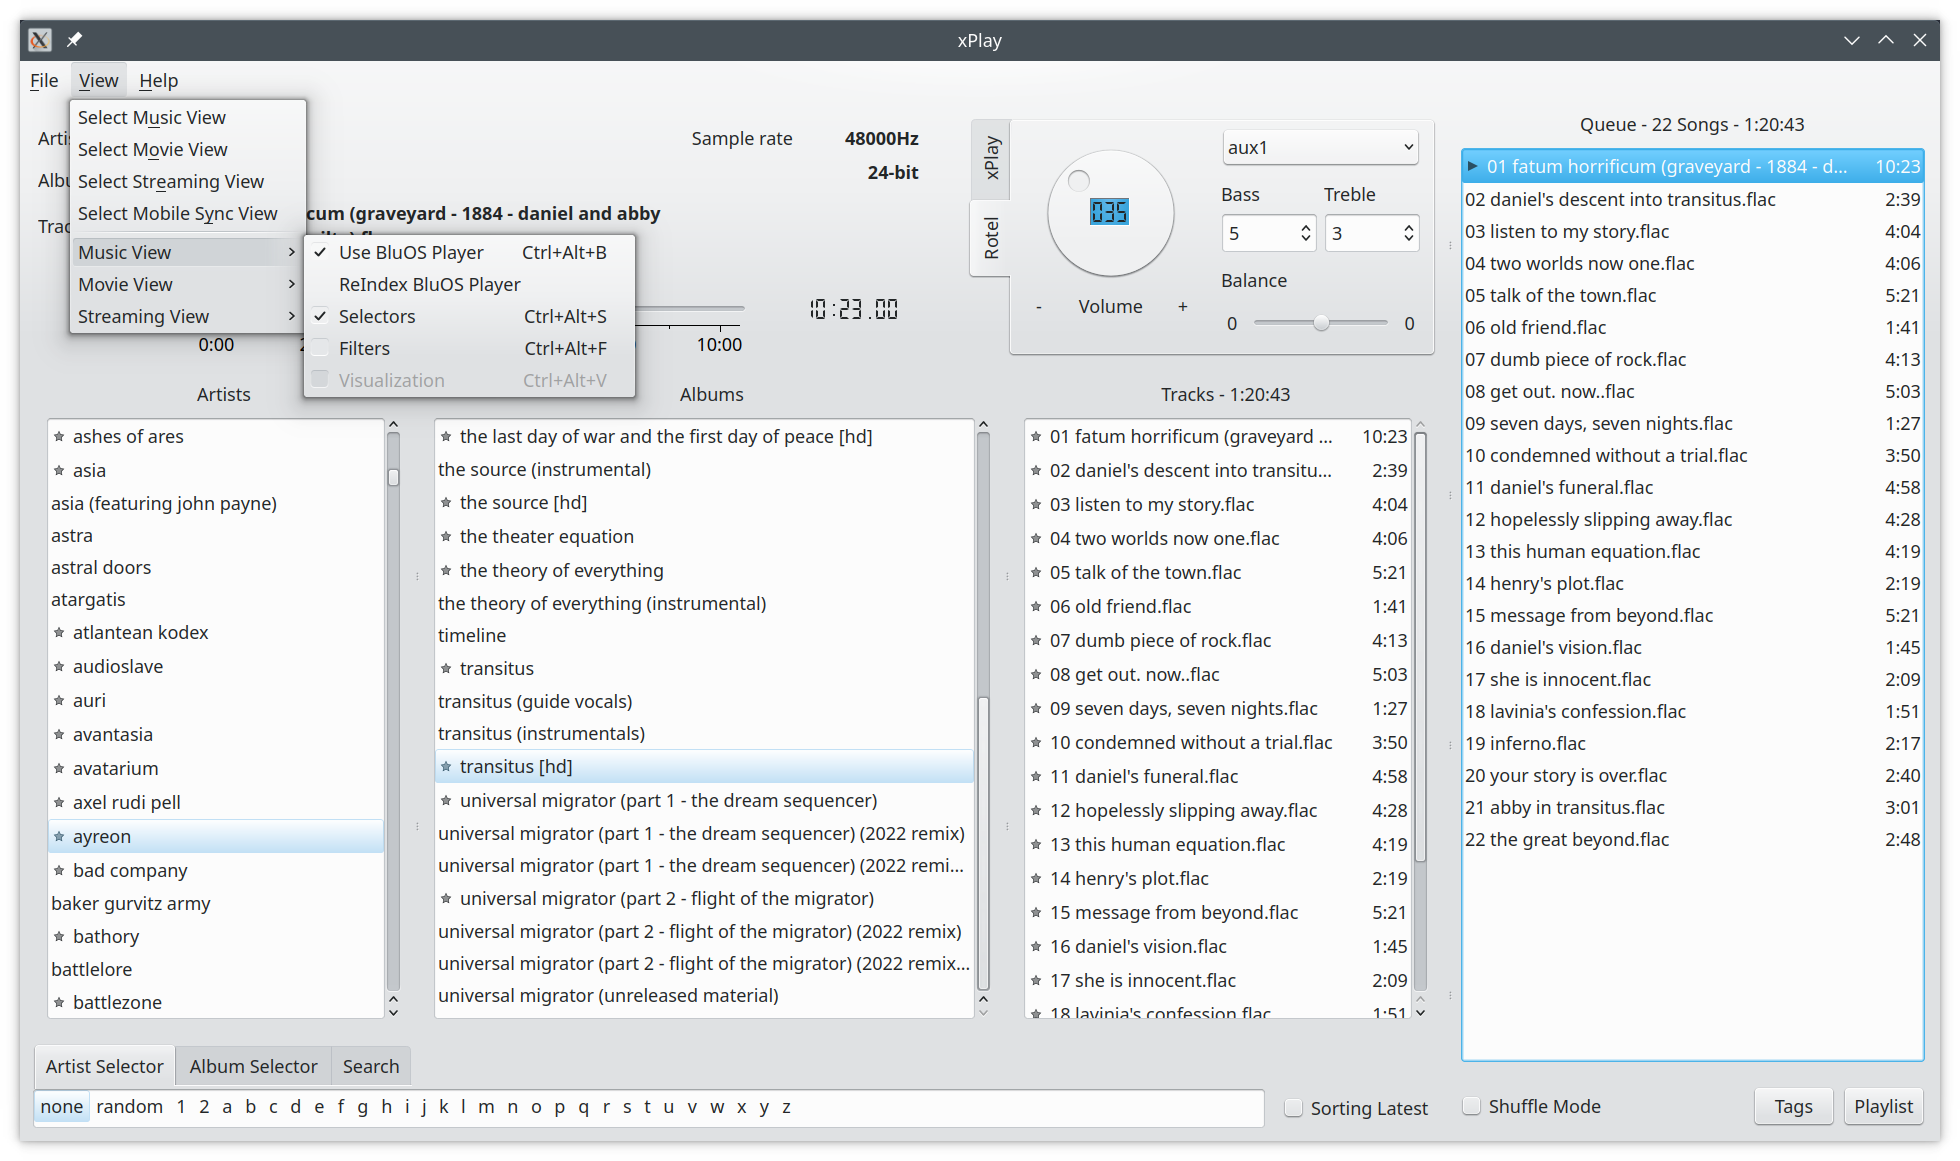
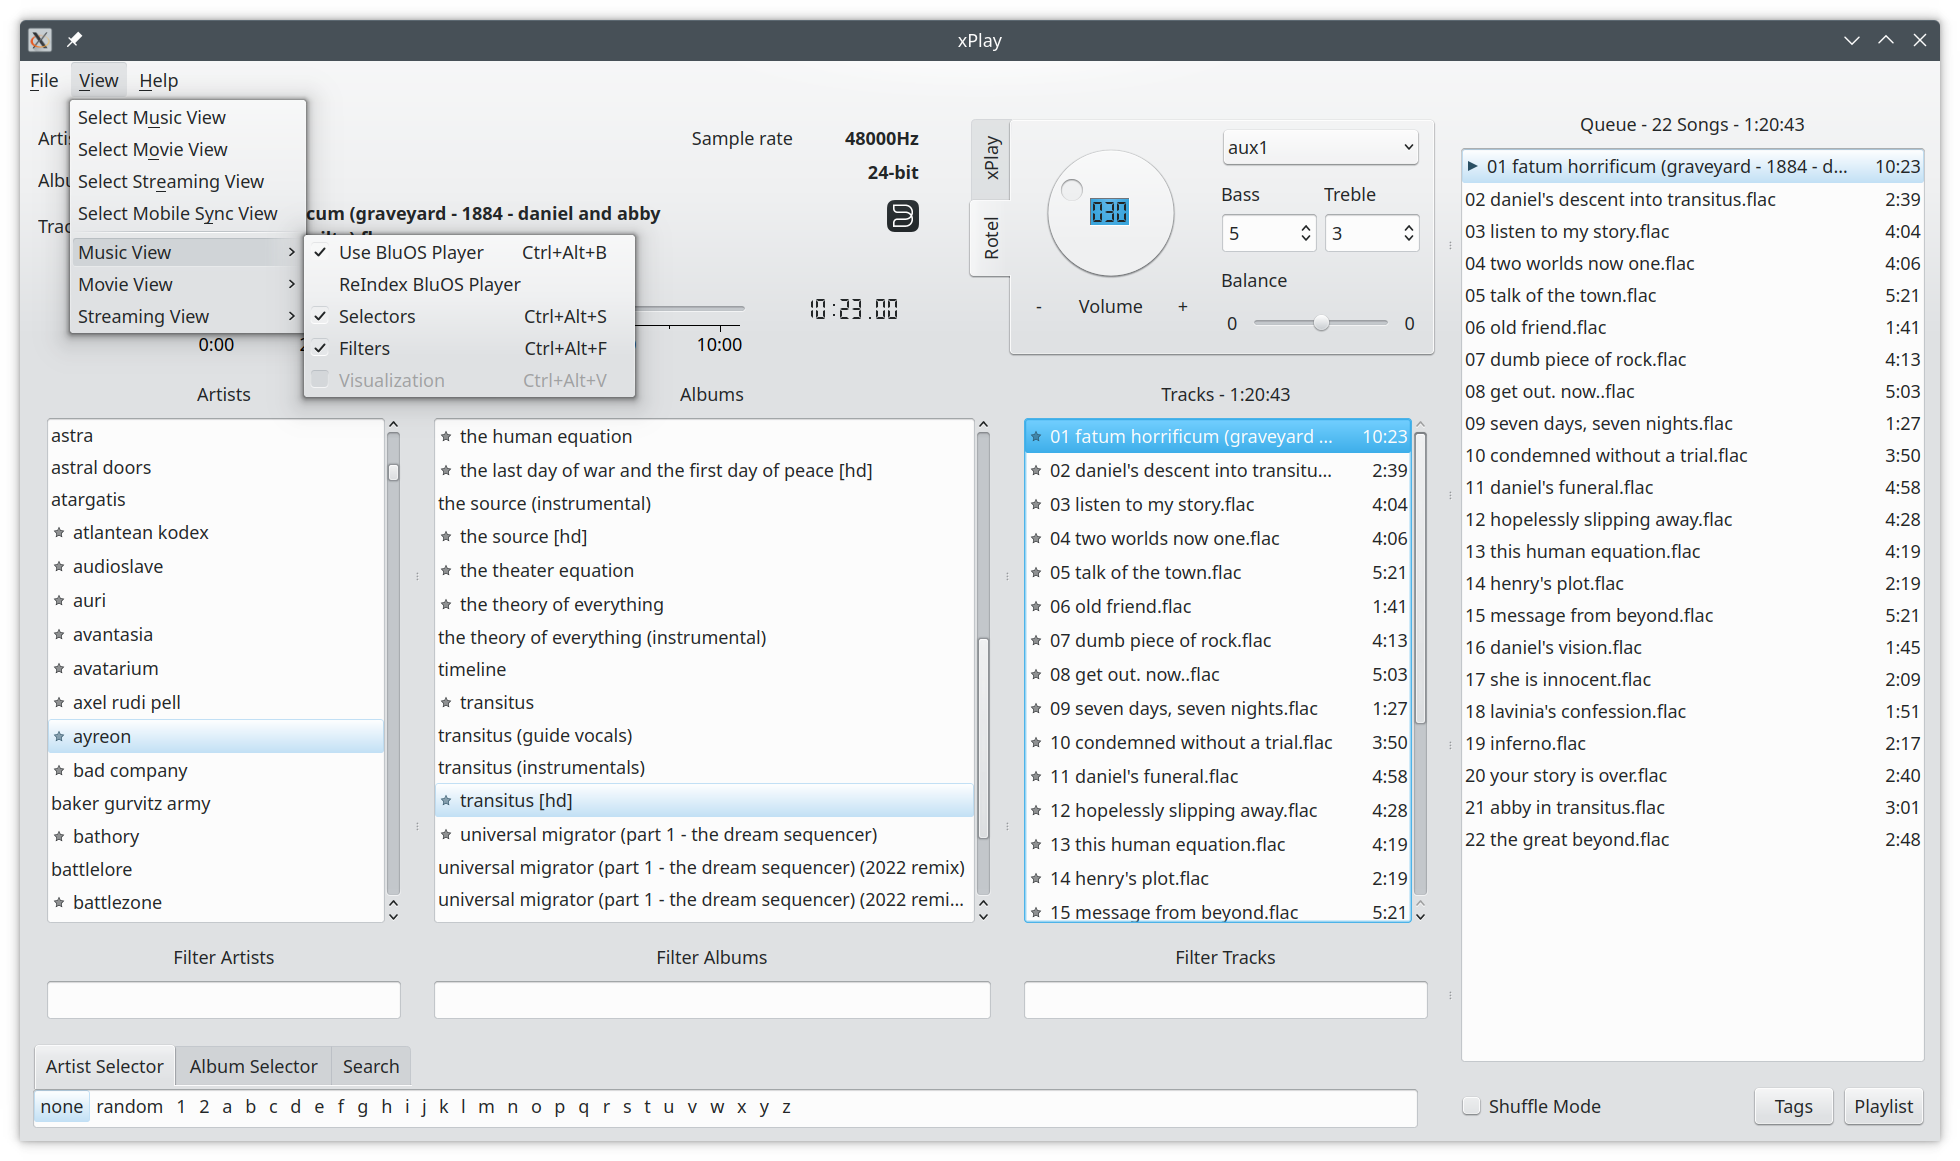
Update CHANGELOG.md, screenshots and version number.

diff --git a/xPlay.cpp b/xPlay.cpp
@@ -151,7 +151,7 @@ int main(int argc, char* argv[])
 {
     QApplication playApp(argc, argv);
     QApplication::setApplicationName("xPlay");
-    QApplication::setApplicationVersion("0.14.3");
+    QApplication::setApplicationVersion("0.14.4");
     QCommandLineParser playAppParser;
     if (handleCommandLine(playApp, playAppParser)) {
         // Exit if the command line was handled.

diff --git a/CHANGELOG.md b/CHANGELOG.md
@@ -1,7 +1,7 @@
 # Changelog
 
 
-## Unreleased
+## 0.14.4 - 2023-02-20
 
 - Add BluOS icon when playing from BluOS player library.
 - Improve queue handling for BluOS player libraries.
